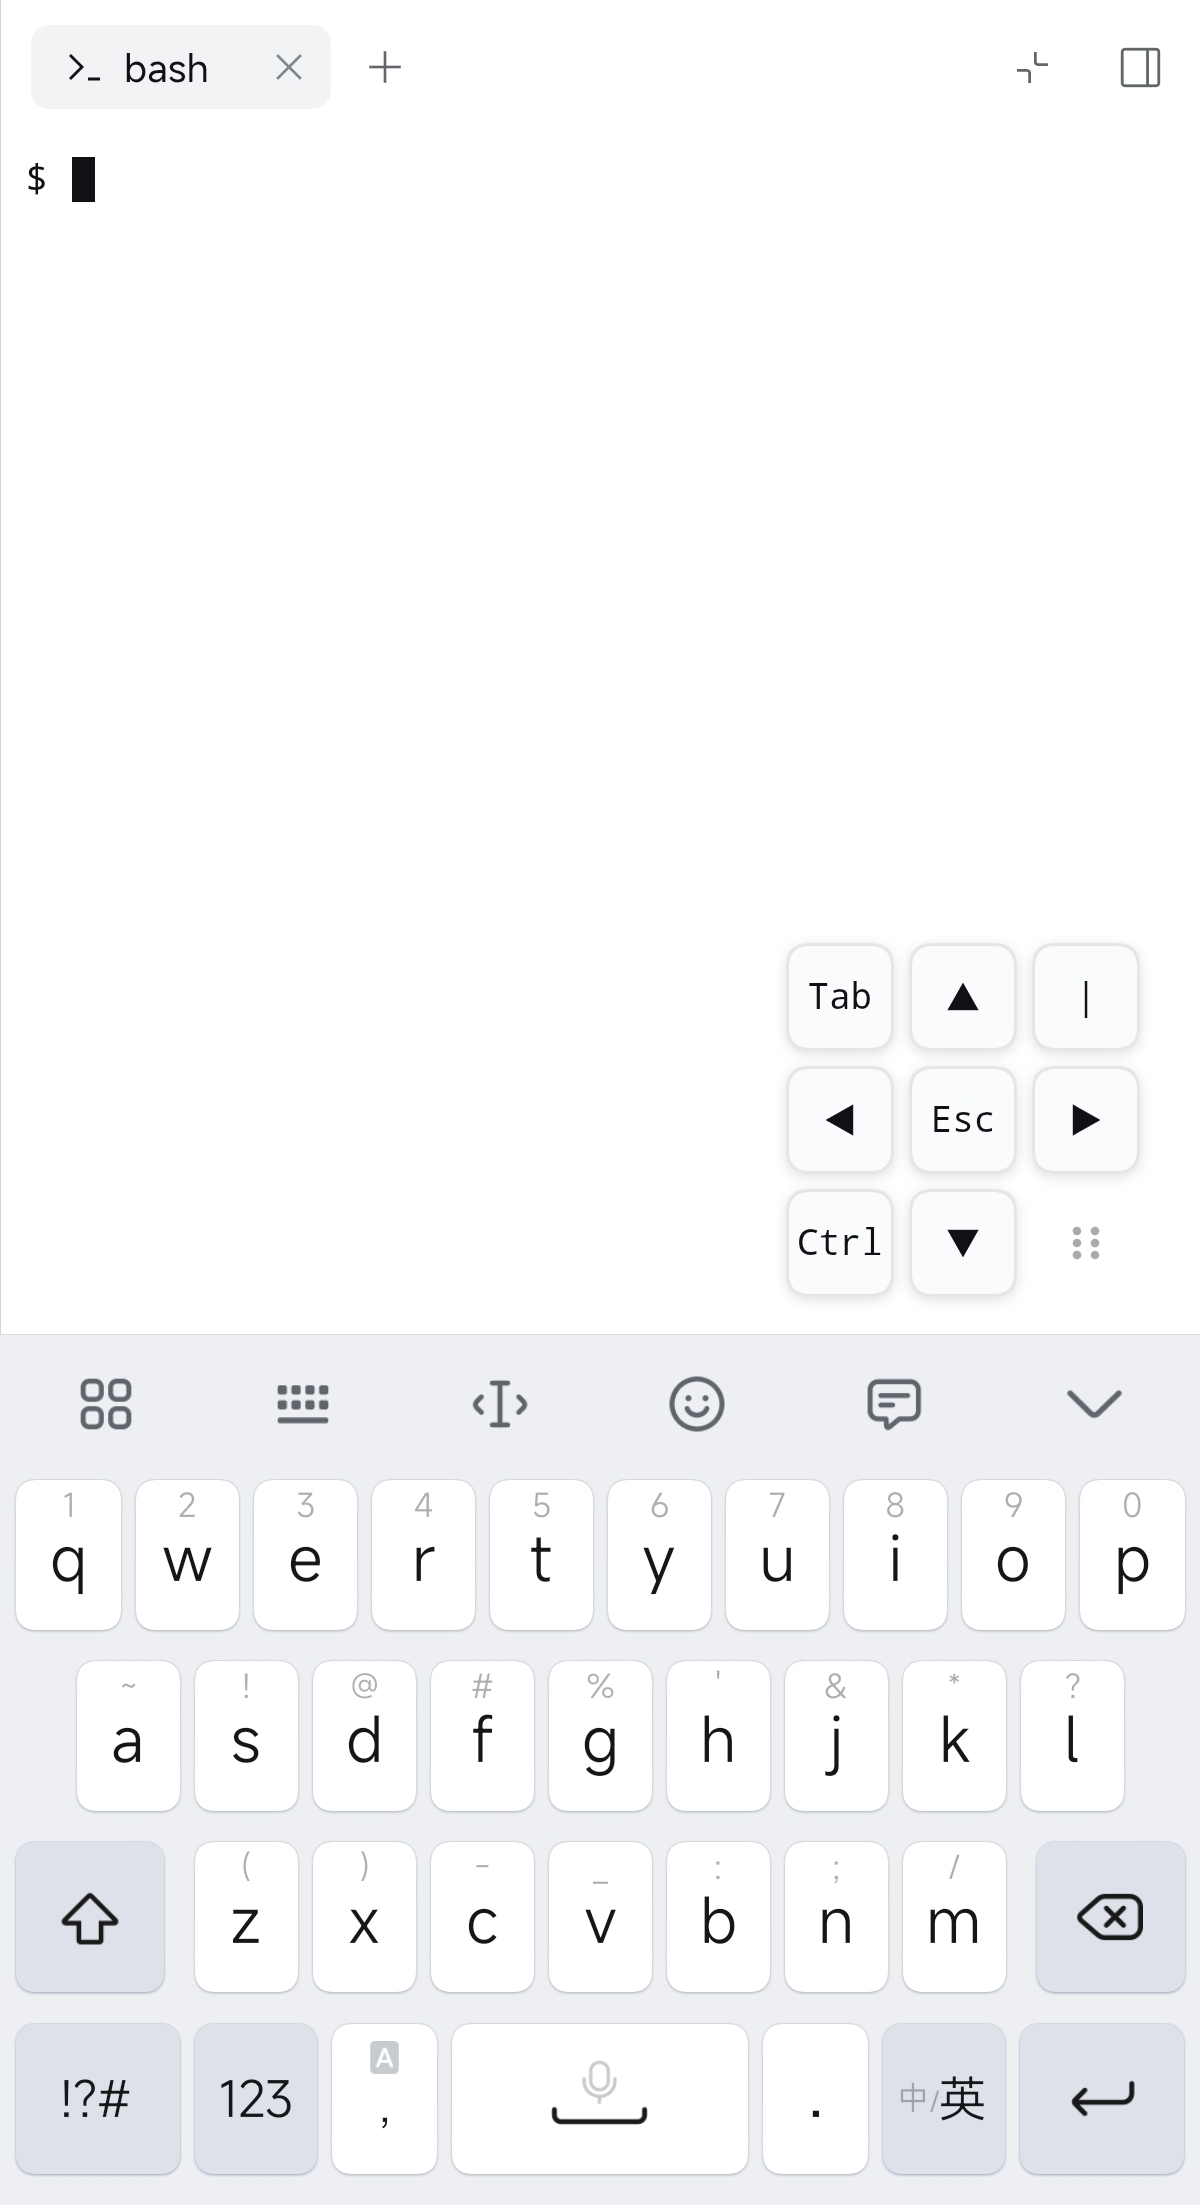
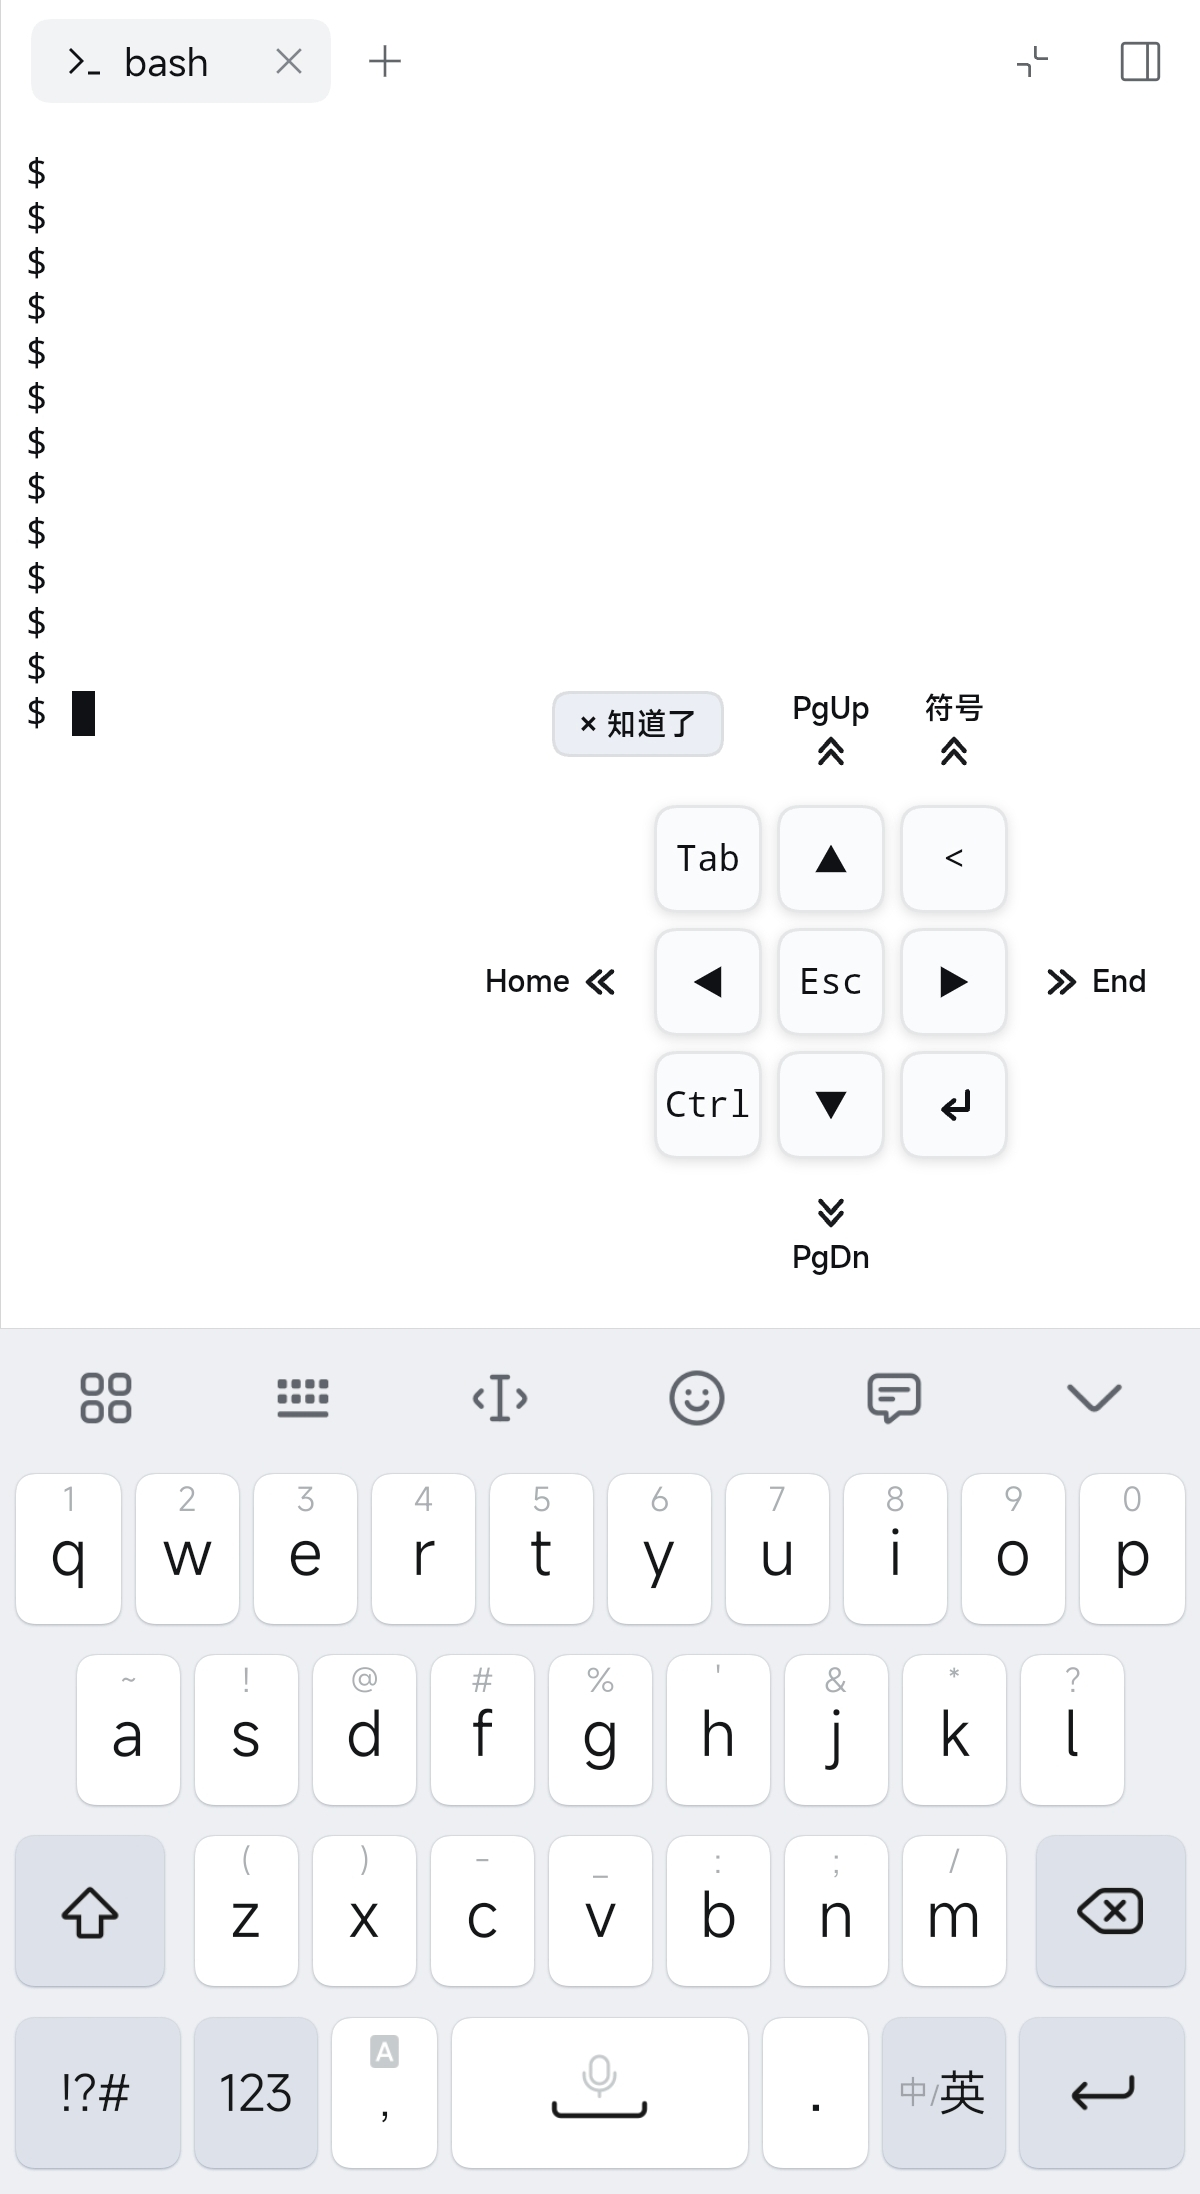
docs: refresh the screenshot to show the first-run hint
The new capture shows the coach marks around the pad, the blinking
chevrons with their labels and the x Got it chip at the top-left, so the
image alt text now describes that state too.

diff --git a/README.md b/README.md
@@ -7,7 +7,7 @@ keys a phone's soft keyboard does not have — **Esc**, **Tab**, **Ctrl**, **Ent
 a switchable symbol key and the four arrow keys — and turns an outward slide on
 an arrow into **Home / End / Page Up / Page Down**.
 
-![The keypad floating over a bash terminal on a phone, just above the soft keyboard](doc/Screenshot_2026-11-14.jpg)
+![The keypad over a bash terminal on a phone, just above the soft keyboard, showing the first-run hint: blinking arrows with Page Up / Home / End / Page Down labels around the keys and an x Got it chip at the top-left](doc/Screenshot_2026-11-14.jpg)
 
 ## Layout
 

diff --git a/README.zh.md b/README.zh.md
@@ -6,7 +6,7 @@
 **Esc**、**Tab**、**Ctrl**、**回车**、可切换的符号键和四个方向键，并支持在
 方向键上向外滑动，改为发送 **Home / End / Page Up / Page Down**。
 
-![手机上悬浮在 bash 终端上、正好位于软键盘上方的按键面板](doc/Screenshot_2026-11-14.jpg)
+![手机上悬浮在 bash 终端上方、正好在软键盘上方的按键面板，首次打开时四周显示闪烁的箭头与 Page Up / Home / End / Page Down 标签，左上角是“× 知道了”](doc/Screenshot_2026-11-14.jpg)
 
 ## 布局
 
